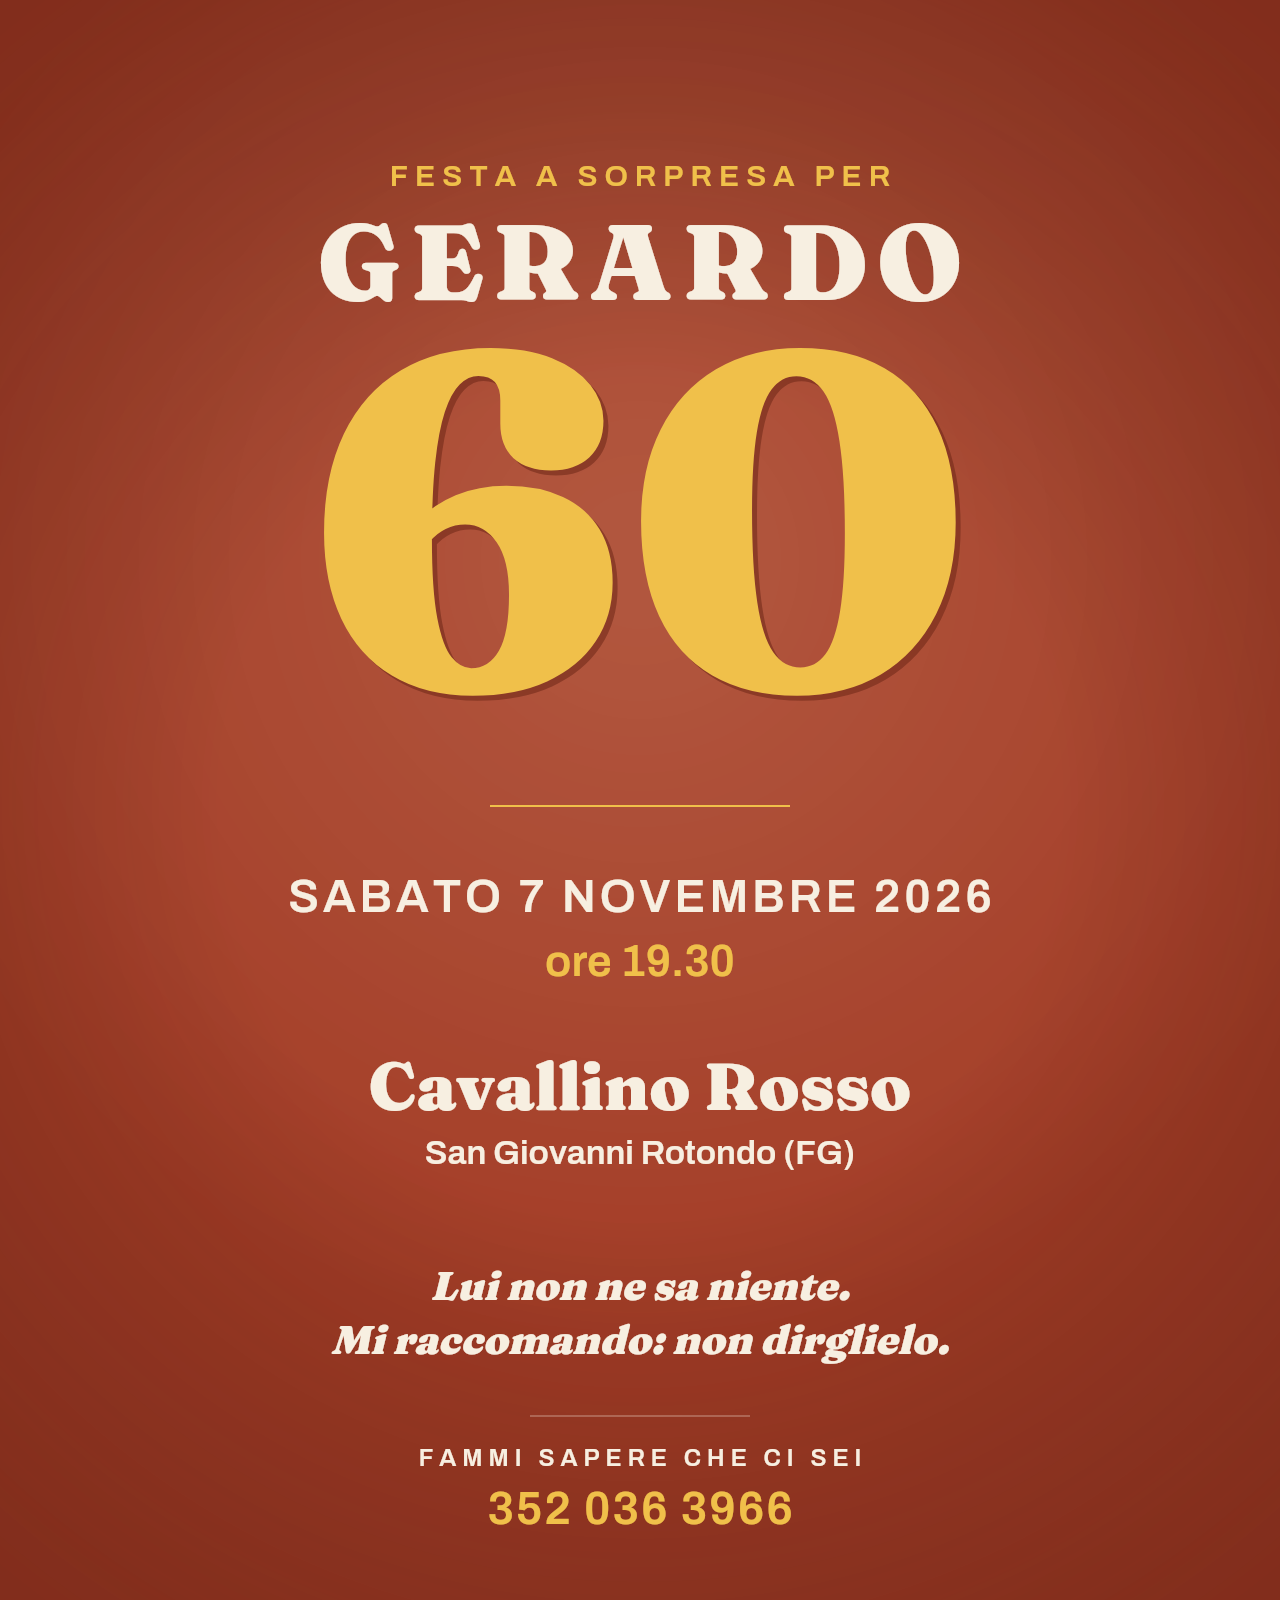
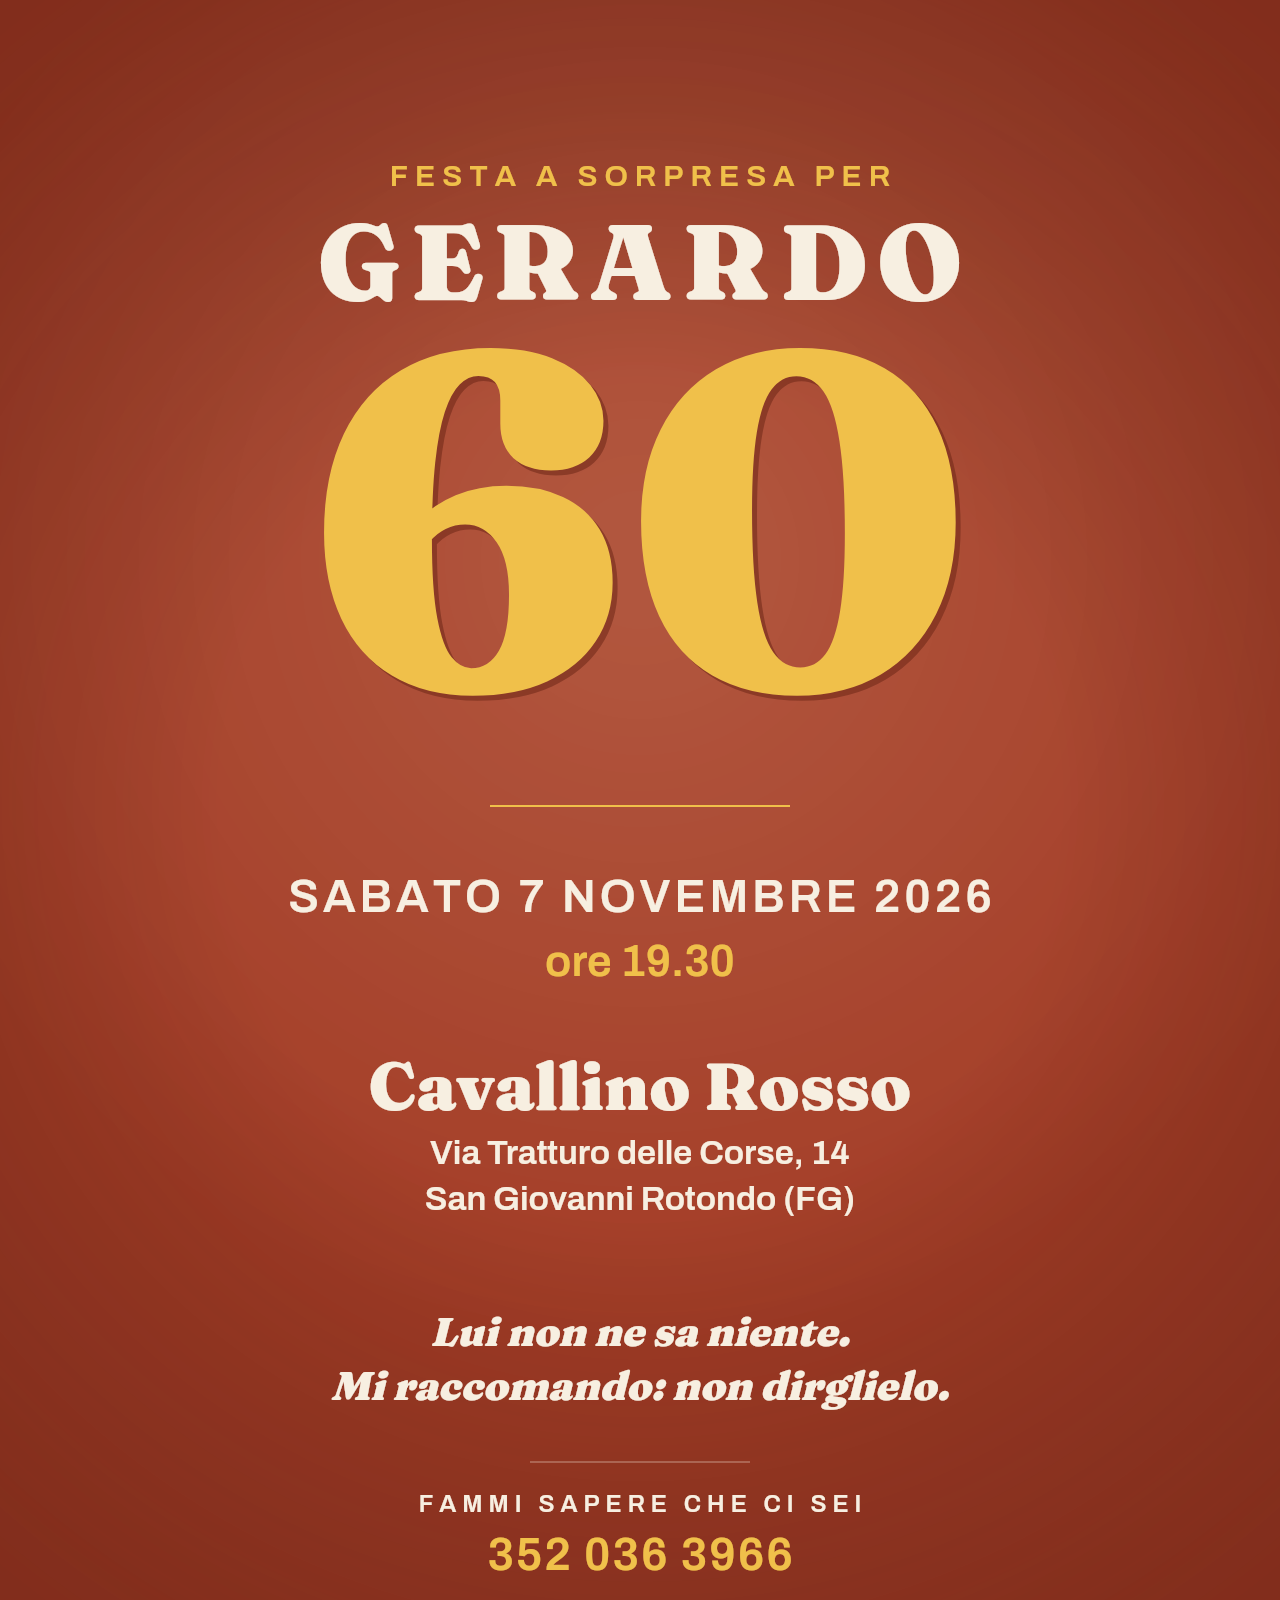
L'indirizzo del Cavallino Rosso, e 'Numero persone' al posto di 'Sono'
INDIRIZZO. Via Tratturo delle Corse, 14 - 71013 San Giovanni Rotondo.
Non me l'aveva dato nessuno: l'ho cercato, e cinque fonti indipendenti
concordano (Tripadvisor, alloggiopuglia, primiristoranti, motorionline,
altairguide). Altre due pero' danno 'Contrada Piano del Marchese, 14', che
in aperta campagna potrebbe essere lo stesso posto detto in un altro modo
- il tratturo e la contrada che attraversa - ma potrebbe anche non
esserlo. VA CONFERMATO da chi il posto lo conosce.

Sull'immagine la via viene PRIMA della citta': un indirizzo si legge dalla
porta al paese, e invertiti sembrano due informazioni slegate invece di un
indirizzo.

MESSAGGIO DI CONFERMA. Finiva con 'Sono:' aperto, per farsi dire il nome.
Ma il nome WhatsApp lo dice gia' da se', sempre: e' il numero da cui
arriva. Quello che nessuno direbbe senza che glielo si chieda e' quanti
sono, che e' poi l'unica cosa che serve sapere per prenotare i posti.
Adesso finisce con 'Numero persone:'.

Changed region(s): [[0.25, 0.6875, 0.75, 0.875], [0.3438, 0.9062, 0.6562, 1.0]]

diff --git a/strumenti/invito.js b/strumenti/invito.js
@@ -37,9 +37,15 @@ const D = {
   ora:       "ore 19.30",
   locale:    "Cavallino Rosso",
   citta:     "San Giovanni Rotondo (FG)",
-  // VIA DA RIEMPIRE: finche' e' vuota la riga non viene disegnata affatto,
-  // che e' meglio di un invito con scritto "[indirizzo]"
-  via:       "",
+  /* DA CONFERMARE. Cinque fonti indipendenti danno "Via Tratturo delle
+     Corse, 14": Tripadvisor, alloggiopuglia, primiristoranti, motorionline
+     e altairguide. Altre due danno "Contrada Piano del Marchese, 14",
+     che in aperta campagna potrebbe essere lo stesso posto detto in un
+     altro modo - il tratturo e la contrada che attraversa - ma potrebbe
+     anche non esserlo.
+     Se resta vuota, la riga non viene disegnata affatto: meglio un invito
+     senza via che un invito che manda la gente nel posto sbagliato. */
+  via:       "Via Tratturo delle Corse, 14",
   segreto1:  "Lui non ne sa niente.",
   segreto2:  "Mi raccomando: non dirglielo.",
   rsvp:      "Fammi sapere che ci sei",
@@ -154,9 +160,11 @@ filetto(806, 300, C.oro, 2);
 scritta(D.giorno.toUpperCase(), { y: 912, corpo: 46, spazio: 4, font: "Archivo" });
 scritta(D.ora,                  { y: 976, corpo: 44, font: "Archivo", colore: C.oro });
 
+/* Un indirizzo si legge dalla porta al paese: prima la via, poi la citta'.
+   Invertiti sembrano due informazioni slegate invece di un indirizzo. */
 scritta(D.locale, { y: 1110, corpo: 66 });
-scritta(D.citta,  { y: 1164, corpo: 34, font: "Archivo" });
-if (D.via) scritta(D.via, { y: 1210, corpo: 32, font: "Archivo" });
+if (D.via) scritta(D.via, { y: 1164, corpo: 34, font: "Archivo" });
+scritta(D.citta,  { y: D.via ? 1210 : 1164, corpo: 34, font: "Archivo" });
 
 const giu = D.via ? 46 : 0;
 

diff --git a/index.html b/index.html
@@ -267,7 +267,8 @@ const ATTI = [
     'Ma parliamo dell\u2019evento.',
     'Ecco il luogo dove avverr\u00e0 la festa.',
     // INDIRIZZO DA CONFERMARE: qui va la via esatta del Cavallino Rosso
-    '<span class="nome">Cavallino Rosso</span><br>San Giovanni Rotondo (FG)<br>' +
+    '<span class="nome">Cavallino Rosso</span><br>' +
+      'Via Tratturo delle Corse 14, San Giovanni Rotondo (FG)<br>' +
       '<span class="nome">sabato 7 novembre 2026, ore 19:30</span>'
   ],
   [
@@ -897,12 +898,14 @@ if (window.ResizeObserver){
    tutto lo spam. Costa una riga. */
 const NUMERO = ['39', '352', '036', '3966'].join('');
 
-/* Il messaggio finisce con "Sono:" aperto, cosi' chi conferma scrive il
-   proprio nome subito dopo. Senza, arriverebbero venti messaggi identici
-   e nessuno saprebbe di chi sono. */
+/* Il messaggio finisce con "Numero persone:" aperto, cosi' chi conferma
+   scrive quanti sono subito dopo. Chi manda si sa gia' - WhatsApp dice
+   sempre da che numero arriva - mentre quanti posti servono al ristorante
+   non lo direbbe nessuno se non glielo si chiedesse. */
 const MESSAGGIO = 'Ci sar\u00f2 alla festa di Gerardo! ' +
-  'Sabato 7 novembre 2026 alle 19:30, Cavallino Rosso, San Giovanni Rotondo.' +
-  '\n\nSono: ';
+  'Sabato 7 novembre 2026 alle 19:30, Cavallino Rosso, ' +
+  'Via Tratturo delle Corse 14, San Giovanni Rotondo.' +
+  '\n\nNumero persone: ';
 
 elConferma.href = 'https://wa.me/' + NUMERO +
   '?text=' + encodeURIComponent(MESSAGGIO);
@@ -1568,6 +1571,7 @@ addEventListener('keydown', e => {
 
 </body>
 </html>
+
 
 
 
